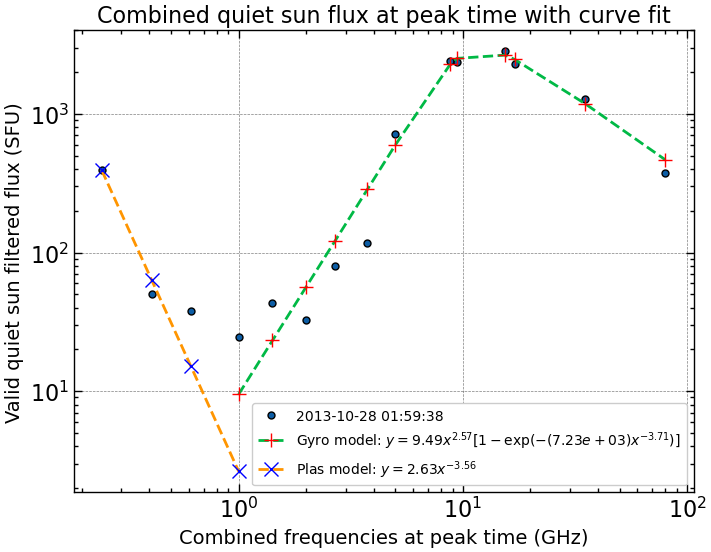
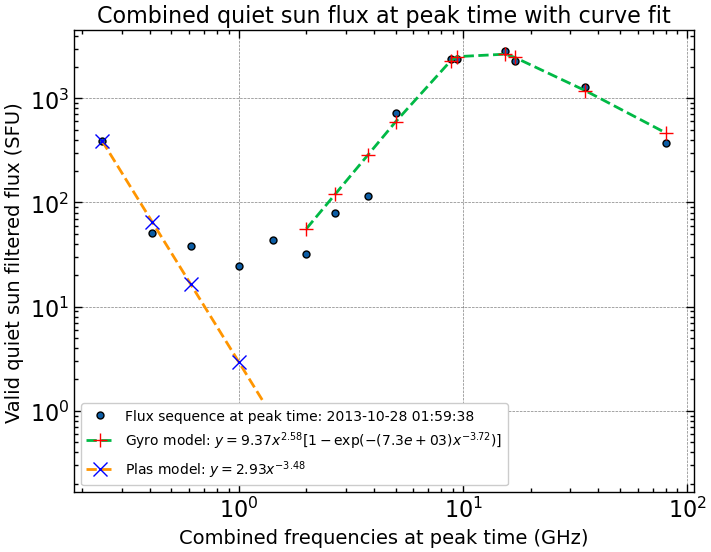
Formatting pass

diff --git a/main.py b/main.py
@@ -5,7 +5,8 @@ Created on Wed Mar 15 2023
 
 @author: Yang-Taotao
 """
-# %% Custom module import
+# %% Library import
+# Custom module import
 # Data handler import
 from data_handler import loader, validator, quiet_sun, collector
 
@@ -15,16 +16,16 @@ from data_plotter import plot_generator, log_avg_plotter
 # Data fitter import
 from data_fitter import gyro_fitter, plas_fitter
 
-# %% Key data assignment
+# %% Data path and peak time assignment
 # Assign norp, apl, and phf file path
 data_path = ("./data/norp/", "./data/apl/", "./data/phf/")
 # Assign the peaktime of flux recording
 norp_peak_time = "2013-10-28 01:59:38"
 
-# %% Data repo
+# %% Load csv data into data repo
 # Deposit data arrays
 data_repo = loader(data_path)
-# Assign loaded data
+# Assign loaded data to variables
 (
     norp_fi,
     norp_freq,
@@ -37,9 +38,11 @@ data_repo = loader(data_path)
     phf_freq,
     phf_tim,
 ) = [data_repo[i] for i in range(len(data_repo))]
-# Deposit norp validity filtered arrays
+
+# %% NoRP validity filter result deposit
 norp_tim_valid, norp_fi_valid = validator(norp_mvd, norp_tim, norp_fi)
-# Deposit quiet sun result
+
+# %% NoRP quiet sun result deposit
 norp_fi_peak, apl_fi_peak, phf_fi_peak = quiet_sun(
     (norp_fi_valid, apl_fi, phf_fi)
 )
@@ -70,21 +73,19 @@ arg_time, arg_freq, arg_flux = (
 # Peak time arguement tally
 peak_arg = (arg_time, arg_freq, arg_flux)
 
-# %% Peak time flux array repo
-# Assign peak time combined freq and flux array
+# %% Get peak time combined flux and time array
 peak_time_freq, peak_time_flux = collector(*peak_arg)
 
-# %% Curve fitter
-# Define cut-off freq
-freq_cut = 1
-# Generate combined fit results
+# %% Curve fitter key value assignment - Define cut-off freq
+freq_cut = 2
+
+# %% Generate combined fit results
+# Get fitted results
 results_gyro, results_plas = (
     gyro_fitter(peak_time_freq, peak_time_flux, freq_cut),
     plas_fitter(peak_time_freq, peak_time_flux, freq_cut),
 )
-
-# %% Fit parameter cache
-# General combined fit parameter cache
+# Assign fit parameters
 gyro_param, plas_param = results_gyro[0], results_plas[0]
 
 # %% Plotter argument assignment
@@ -120,17 +121,16 @@ plt_arg1, plt_arg2, plt_arg3, plt_arg4 = (
         peak_time_freq,
         peak_time_flux,
         norp_peak_time,
-        gyro_param, 
+        gyro_param,
         plas_param,
-        freq_cut
+        freq_cut,
     ),
 )
 
-# %% Averaged flux array parser
+# %% Optional - Averaged flux array parser
 norp_peak_avg, apl_peak_avg, phf_peak_avg = log_avg_plotter(plt_arg3)
 
 # %% Plot generator argument assignment
-# Plot generator argument assignment
 plt_arg = (plt_arg1, plt_arg2, plt_arg3, plt_arg4)
 
 # %% Plot generation

diff --git a/data_plotter.py b/data_plotter.py
@@ -76,11 +76,13 @@ def norp_plotter(arg):
     plt.ylabel("Valid NoRP quiet sun filtered flux", fontsize=14)
     plt.title("NoRP quiet sun time evolution", fontsize=16)
     plt.legend(fontsize=10)
+
+    # Save and close
     plt.savefig("./media/figure_01_norp.png")
     plt.close()
 
     # Return function call
-    return (plt_0)
+    return plt_0
 
 
 # %% RSTN plotter
@@ -161,6 +163,8 @@ def rstn_plotter(arg):
     plt.ylabel("Valid RSTN quiet sun filtered flux", fontsize=14)
     plt.title("RSTN quiet sun time evolution", fontsize=16)
     plt.legend(fontsize=10)
+
+    # Save and close
     plt.savefig("./media/figure_02_rstn.png")
     plt.close()
 
@@ -267,6 +271,8 @@ def log_plotter(arg):
     plt.ylabel("Quiet sun filtered flux (SFU)", fontsize=14)
     plt.title("Combined quiet sun time evolution", fontsize=16)
     plt.legend(fontsize=10)
+
+    # Save and close
     plt.savefig("./media/figure_03_combined.png")
     plt.close()
 
@@ -365,6 +371,8 @@ def log_avg_plotter(arg):
     plt.ylabel("Valid quiet sun filtered flux", fontsize=14)
     plt.title("Combined quiet sun at peak time", fontsize=16)
     plt.legend(fontsize=10)
+
+    # Save and close
     plt.savefig("./media/figure_03_peak_average_combined.png")
     plt.close()
 
@@ -388,14 +396,14 @@ def peak_plotter(arg):
     """
     # Local variable repo
     (
-        data_peak_freq, 
-        data_peak_flux, 
-        data_norp_peak_time, 
-        gyro_param, 
+        data_peak_freq,
+        data_peak_flux,
+        data_norp_peak_time,
+        gyro_param,
         plas_param,
         freq_cut,
-     ) = [arg[i] for i in range(len(arg))]
-    
+    ) = [arg[i] for i in range(len(arg))]
+
     # Fitted function repo
     data_gyro, data_plas = (
         gyro_model(data_peak_freq[data_peak_freq >= freq_cut], *gyro_param),
@@ -412,7 +420,7 @@ def peak_plotter(arg):
         ".",
         markersize=10,
         markeredgecolor="black",
-        label=data_norp_peak_time,
+        label="Flux sequence at peak time: " + data_norp_peak_time,
     )
     # Gyro fit curve - x >= 2
     plt_1 = plt.plot(
@@ -440,7 +448,9 @@ def peak_plotter(arg):
     # Plot customizations
     plt.xlabel("Combined frequencies at peak time (GHz)", fontsize=14)
     plt.ylabel("Valid quiet sun filtered flux (SFU)", fontsize=14)
-    plt.title("Combined quiet sun flux at peak time with curve fit", fontsize=16)
+    plt.title(
+        "Combined quiet sun flux at peak time with curve fit", fontsize=16
+    )
     plt.legend(fontsize=10)
     plt.savefig("./media/figure_03_peak_time.png")
     plt.close()

diff --git a/data_fitter.py b/data_fitter.py
@@ -14,6 +14,25 @@ from scipy.stats import chi2
 # %% Fit model definition
 # Gyro model definition
 def gyro_model(x_val, param_a_cap, param_b_cap, param_a, param_b):
+    """
+    Parameters
+    ----------
+    x_val : array
+        Gyro model x value array.
+    param_a_cap : float
+        Fit param A.
+    param_b_cap : float
+        Fit param B.
+    param_a : float
+        Fit param a.
+    param_b : float
+        Fit param b.
+
+    Returns
+    -------
+    array
+        Gyro model.
+    """
     # Return gyro model
     return (
         param_a_cap
@@ -24,31 +43,62 @@ def gyro_model(x_val, param_a_cap, param_b_cap, param_a, param_b):
 
 # Plas model definition
 def plas_model(x_val, param_c, param_k):
+    """
+    Parameters
+    ----------
+    x_val : array
+        Plasma model x value array.
+    param_c : float
+        Fit param c.
+    param_k : float
+        Fit param k.
+
+    Returns
+    -------
+    array
+        Plasma model.
+
+    """
     # Return plas model
     return param_c * x_val**param_k
 
 
 # %% Fitted function result label generator
 def fit_label(gyro_param, plas_param):
+    """
+    Parameters
+    ----------
+    gyro_param : tuple
+        Gyro model fit param tuple.
+    plas_param : tuple
+        Plas model fit param tuple.
+
+    Returns
+    -------
+    label_gyro : string
+        Fitted gyro model expression.
+    label_plas : string
+        Fitted plas model expression.
+    """
+    # Cache into singular tuple
+    fit_param = np.concatenate([gyro_param, plas_param]).ravel()
+
     # Local fit cariable unpack
-    fit_a_cap, fit_b_cap, fit_a, fit_b, fit_c, fit_k = (
-        gyro_param[0],
-        gyro_param[1],
-        gyro_param[2],
-        gyro_param[3],
-        plas_param[0],
-        plas_param[1],
-    )
+    fit_a_cap, fit_b_cap, fit_a, fit_b, fit_c, fit_k = [
+        fit_param[i] for i in range(len(fit_param))
+    ]
 
     # Label generator
     label_gyro, label_plas = (
-        fr'Gyro model: $y={fit_a_cap:.3g}x^{{{fit_a:.3g}}}[1-\exp({{-({fit_b_cap:.3g})x^{{-{fit_b:.3g}}}}})]$',
-        fr'Plas model: $y={fit_c:.3g}x^{{{fit_k:.3g}}}$',
+        # Gyro model
+        rf"Gyro model: $y={fit_a_cap:.3g}x^{{{fit_a:.3g}}}"
+        rf"[1-\exp({{-({fit_b_cap:.3g})x^{{-{fit_b:.3g}}}}})]$",
+        # Plas model
+        rf"Plas model: $y={fit_c:.3g}x^{{{fit_k:.3g}}}$",
     )
 
     # Result return
     return (label_gyro, label_plas)
-
 
 
 # %% Gyro fitter

diff --git a/data_handler.py b/data_handler.py
@@ -156,10 +156,21 @@ def collector(arg_time, arg_freq, arg_flux):
         )
 
         # Return index repo
-        return idx_norp, idx_apl, idx_phf
+        return (idx_norp, idx_apl, idx_phf)
 
     # Peak time freq collector
     def peak_freq(arg_freq):
+        """
+        Parameters
+        ----------
+        arg_freq : tuple
+            Tuple of freq data arrays.
+
+        Returns
+        -------
+        data_freq_combined : array
+            Combined freq array.
+        """
         # Local variable repo
         data_norp_freq, data_apl_freq, data_phf_freq = [
             arg_freq[i] for i in range(len(arg_freq))
@@ -180,6 +191,18 @@ def collector(arg_time, arg_freq, arg_flux):
 
     # Peak time flux collector
     def peak_flux(arg_flux):
+        """
+        Parameters
+        ----------
+        arg_flux : tuple
+            Tuple of flux data arrays.
+
+        Returns
+        -------
+        data_flux_combined : array
+            Combined flux array.
+
+        """
         # Local variable repo
         data_norp_flux_peak, data_apl_flux_peak, data_phf_flux_peak = [
             arg_flux[i] for i in range(len(arg_flux))
@@ -227,11 +250,12 @@ def collector(arg_time, arg_freq, arg_flux):
     data_freq_final = np.unique(data_freq_sorted)
 
     # Calculate the mean y values for each unique x value
-    data_flux_final = np.zeros(len(data_freq_final))
-    for i, xval in enumerate(data_freq_final):
-        data_flux_final[i] = np.mean(
-            data_flux_sorted[data_freq_sorted == xval]
-        )
+    data_flux_final = np.array(
+        [
+            np.mean(data_flux_sorted[data_freq_sorted == xval])
+            for xval in data_freq_final
+        ]
+    )
 
     # Return combined peak time flux array
-    return data_freq_final, data_flux_final
+    return (data_freq_final, data_flux_final)
